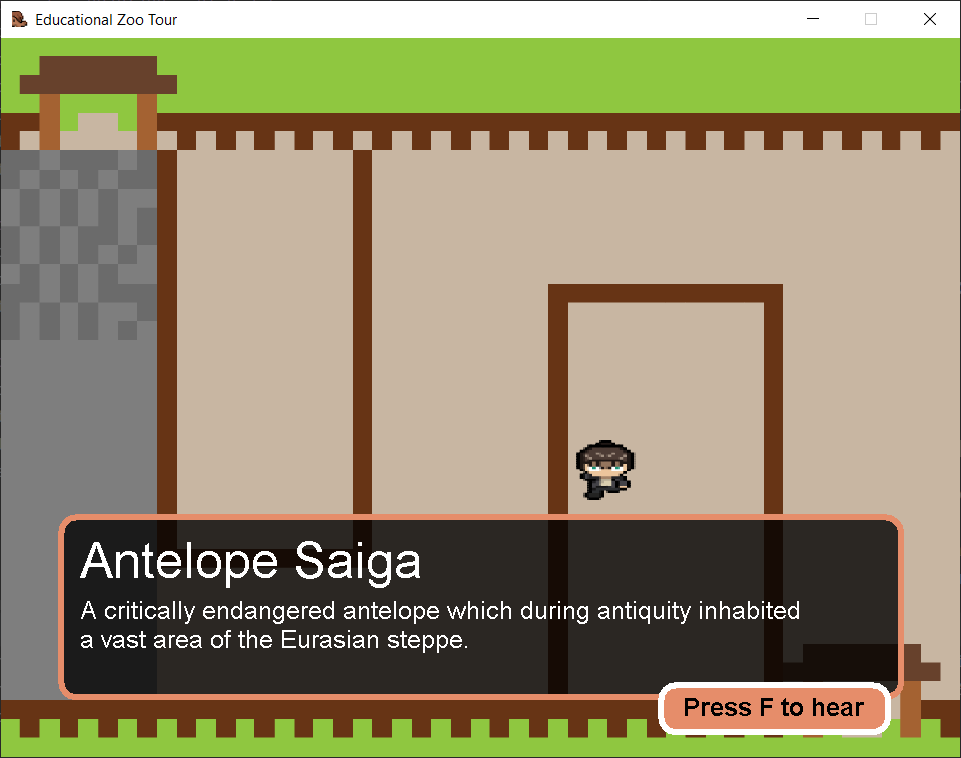
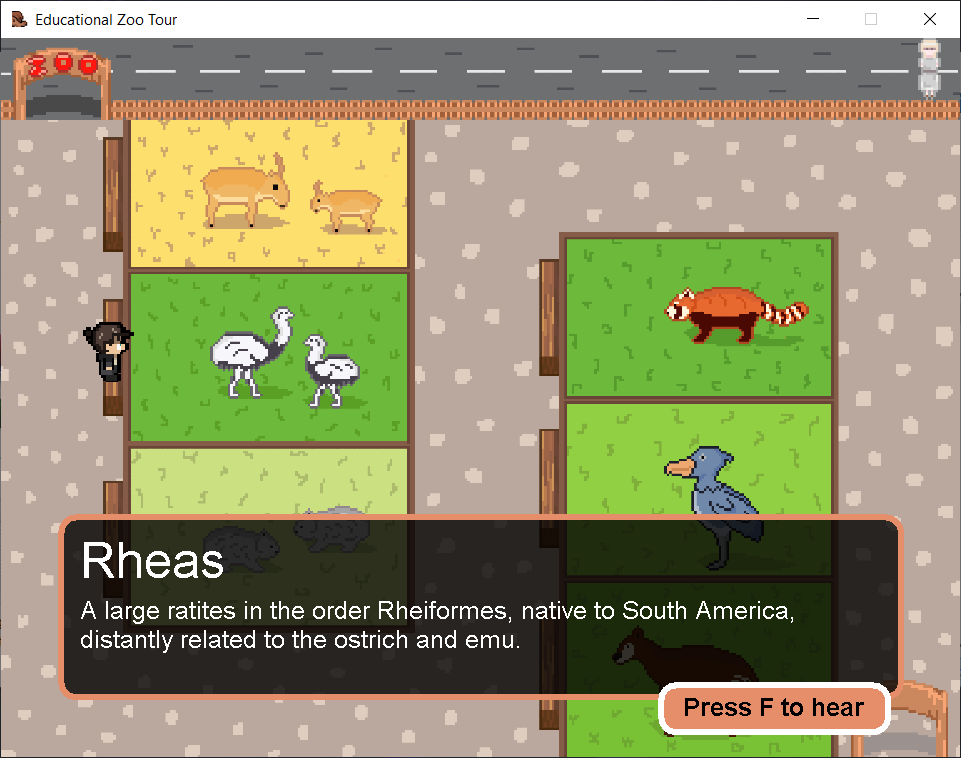
First Release!! v1.0

diff --git a/src/main/GamePanel.java b/src/main/GamePanel.java
@@ -24,7 +24,7 @@ public class GamePanel extends JPanel implements Runnable{
     // move amount counter
     static long moveCounter = 0;
 
-    // game border
+    // game border used in player class
     public int borderTop = 7;
     public int borderBottom = 523;
     public int borderLeft = 1;
@@ -45,12 +45,6 @@ public class GamePanel extends JPanel implements Runnable{
 
     // entity and object
     Player player = new Player(this,keyH);
-
-
-    //player default position and rules
-//    int playerX = 100;
-//    int playerY = 100;
-//    int playerSpeed = 10;
 
     public GamePanel(){
         this.setPreferredSize(new Dimension(screenWidth, screenHeight));
@@ -79,27 +73,30 @@ public class GamePanel extends JPanel implements Runnable{
             // 2. Draw the screen with the updated information
             repaint();
             // check player coordinate
-            //System.out.println("player x: "+player.x+" ,player y: "+player.y);
+//            System.out.println("player x: "+player.x+" ,player y: "+player.y);
 
             // set of game rules
             displayUI = false;
             tileM.bgIndex = 0;
-            if (player.x > 400 && player.x < 700 && player.y > 300 && player.y < 500){
-                // beast rule
-//                while(true){
-//                    tileM.bgIndex = 1;
-//                    playSE(10);
-//                    try {
-//                        Thread.sleep(5000);
-//                        break;
-//                    } catch (InterruptedException e) {
-//                        e.printStackTrace();
-//                    }
-//                }
-//                System.out.println("player is around 400-700");
+            if (player.x >= 700 && player.x <= 718 && player.y >= 4 && player.y <= 16){
+                while(true){
+                    tileM.bgIndex = 1;
+                    playSE(4);
+                    try {
+                        Thread.sleep(5000);
+                        player.x = 22;
+                        player.y = 64;
+                        break;
+                    } catch (InterruptedException e) {
+                        e.printStackTrace();
+                    }
+                }
+            }
+
+                //antelope saiga UI & Sound
+            if (player.x >= 60 && player.x <= 70 && player.y >= 40 && player.y <= 142){
                 ui.displayUI(1);
                 playerOnPosition = true;
-
                 if (keyH.interactPressed){
                     playAnimal("Antelope Saiga");
                     keyH.interactPressed = false;
@@ -108,13 +105,74 @@ public class GamePanel extends JPanel implements Runnable{
                 playerOnPosition = false;
             }
 
-            if (player.x > 1 && player.x < 25 && player.y > 370 && player.y < 460){
-                System.out.println("ur on exit");
+                //Rheas bird UI & Sound
+            if (player.x >= 60 && player.x <= 70 && player.y >= 184 && player.y <= 256){
+                ui.displayUI(2);
+                playerOnPosition = true;
+                if (keyH.interactPressed){
+                    playAnimal("Rheas");
+                    keyH.interactPressed = false;
+                }
+            }else{
+                playerOnPosition = false;
+            }
+
+                //Wombat UI & Sound
+            if (player.x >= 60 && player.x <= 70 && player.y >= 334 && player.y <= 412){
+                ui.displayUI(3);
+                playerOnPosition = true;
+                if (keyH.interactPressed){
+                    playAnimal("Wombat");
+                    keyH.interactPressed = false;
+                }
+            }else{
+                playerOnPosition = false;
+            }
+
+                //Red Panda UI & Sound
+            if (player.x >= 406 && player.x <= 418 && player.y >= 148 && player.y <= 238){
+                ui.displayUI(0);
+                playerOnPosition = true;
+                if (keyH.interactPressed){
+                    playAnimal("Red Panda");
+                    keyH.interactPressed = false;
+                }
+            }else{
+                playerOnPosition = false;
+            }
+
+                //Shoebill UI & Sound
+            if (player.x >= 406 && player.x <= 418 && player.y >= 280 && player.y <= 376){
+                ui.displayUI(4);
+                playerOnPosition = true;
+                if (keyH.interactPressed){
+                    playAnimal("Shoebill");
+                    keyH.interactPressed = false;
+                }
+            }else{
+                playerOnPosition = false;
+            }
+
+                //Okapi Johnstoni UI & Sound
+            if (player.x >= 406 && player.x <= 418 && player.y >= 424 && player.y <= 520){
+                ui.displayUI(5);
+                playerOnPosition = true;
+                if (keyH.interactPressed){
+                    playAnimal("Okapi Johnstoni");
+                    keyH.interactPressed = false;
+                }
+            }else{
+                playerOnPosition = false;
+            }
+
+            //exit rule
+            if (player.x >= 640 && player.x <= 718 && player.y >= 484 && player.y <= 526){
                 if (keyH.interactPressed){
                     System.exit(0);
                 }
             }
 
+            //Game fps rule
             try {
                 Thread.sleep(drawTiming);
             } catch (InterruptedException e) {
@@ -138,6 +196,8 @@ public class GamePanel extends JPanel implements Runnable{
         }
         g2.dispose();
     }
+
+    //Sound method
     public void playMusic(int i){
         sound.setFile(String.valueOf(i));
         sound.play();

diff --git a/src/entity/Player.java b/src/entity/Player.java
@@ -23,9 +23,9 @@ public class Player extends entity{
     }
 
     public void setDefaultValues(){
-        x = 100;
-        y = 100;
-        speed = 6;
+        x = 22;
+        y = 64;
+        speed = 4;
         direction = "down";
     }
 
@@ -78,21 +78,51 @@ public class Player extends entity{
                 stepCounter = 0;
             }
 
+            // set of player position rules
+            //UP
             if(keyH.upPressed && y > gp.borderTop){
+                if((x >= 70 && x <= 304) && (y >= 442-1 && y <= 442)){
+                    //block player move
+                }else if((x >= 304 && x <= 718) && (y >= 40 && y <= 41)){
+                    //block player move
+                }else{
                 direction = "up";
                 y = y - speed;
+                }
             }
+            //DOWN
             else if(keyH.downPressed && y < gp.borderBottom){
+                if((x >= 424 && x <= 640) && (y >= 124 && y <= 124+gp.tileSize)) {
+                    //block player move
+                }else if((x >= 70 && x <= 718) && (y >= 16 && y <= 17)) {
+                    //block player move
+                }
+                else{
                 direction = "down";
                 y = y + speed;
+                }
             }
+            //RIGHT
             else if(keyH.rightPressed && x < gp.borderRight){
-                direction = "right";
-                x = x + speed;
+                if((x >= 70 && x <= 304-gp.tileSize) &&(y >= 40 && y <= 442)){
+                    //block player move
+                }else if((x >= 418 && x <= 640-gp.tileSize) &&(y >= 124 && y <= 526)){
+                    //block player move
+                }else{
+                    direction = "right";
+                    x = x + speed;
+                }
             }
+            //LEFT
             else if(keyH.leftPressed && x > gp.borderLeft){
+                if((x >= 70+gp.tileSize && x <= 304) &&(y >= 40 && y <= 442)){
+                    //block player move
+                }else if((x >= 418+gp.tileSize && x <= 640) &&(y >= 124 && y <= 526)){
+                    //block player move
+                }else{
                 direction = "left";
                 x = x - speed;
+                }
             }
 
             spriteCounter++;

diff --git a/src/tile/TileManager.java b/src/tile/TileManager.java
@@ -25,7 +25,7 @@ public class TileManager {
             tile[0] = new Tile();
 
             bgArray[0] = new Tile();
-            bgArray[0].image = ImageIO.read(getClass().getResourceAsStream(Map.grassTest));
+            bgArray[0].image = ImageIO.read(getClass().getResourceAsStream(Map.background));
 
             bgArray[1] = new Tile();
             bgArray[1].image = ImageIO.read(getClass().getResourceAsStream(Map.beast));

diff --git a/src/main/Main.java b/src/main/Main.java
@@ -26,11 +26,5 @@ public class Main {
 
         gamePanel.startGameThread();
         gamePanel.setupGame();
-
-//        File asset_up1 = new File("src/res/player/down1.png");
-//        System.out.println(asset_up1.exists());
-
-//        File asset_up1 = new File("C://poop_java_assets/up1.png");
-//        System.out.println("There is a file: "+asset_up1.exists());
     }
 }

diff --git a/src/res/map/Map.java b/src/res/map/Map.java
@@ -1,8 +1,6 @@
 package res.map;
 
 public class Map {
-    public static String grass = "/res/map/grass.png";
-    public static String grassTB = "/res/map/grassTroubleshoot.png";
-    public static String grassTest = "/res/map/grassTest.png";
     public static String beast = "/res/map/beast.png";
+    public static String background = "/res/map/background.png";
 }

diff --git a/README.md b/README.md
@@ -20,8 +20,7 @@ dijumpai di kebun binatang pada umumnya.
 - Soundtrack: C418, Minecraft
 - Sound Effects: Minecraft
 
-## Screenshot(s)
-![Img 2](screenshots/img2.png)
+
 
 ### Change Log 06/06/22 - Intial Commit
 - Basic game functions (Graphics, Player movement, Sound trigger, Soundtrack).
@@ -45,3 +44,14 @@ dijumpai di kebun binatang pada umumnya.
 - Simplification on how sounds are played for code readability
 - Adjusted interact button UI alignment
 - Updated app window icon
+
+### 15/06/22 - FIRST RELEASE!! v1.0
+- Updated map
+- Fix stretched player character
+- Added player collision on animal cage and street fences
+- All animal interaction UI & sounds are enabled
+- Fix in-game exit program location to the bottom right corner of the screen
+
+## Screenshot(s)
+![Img 2](screenshots/img2.png)
+![Img 3](screenshots/img3.png)
